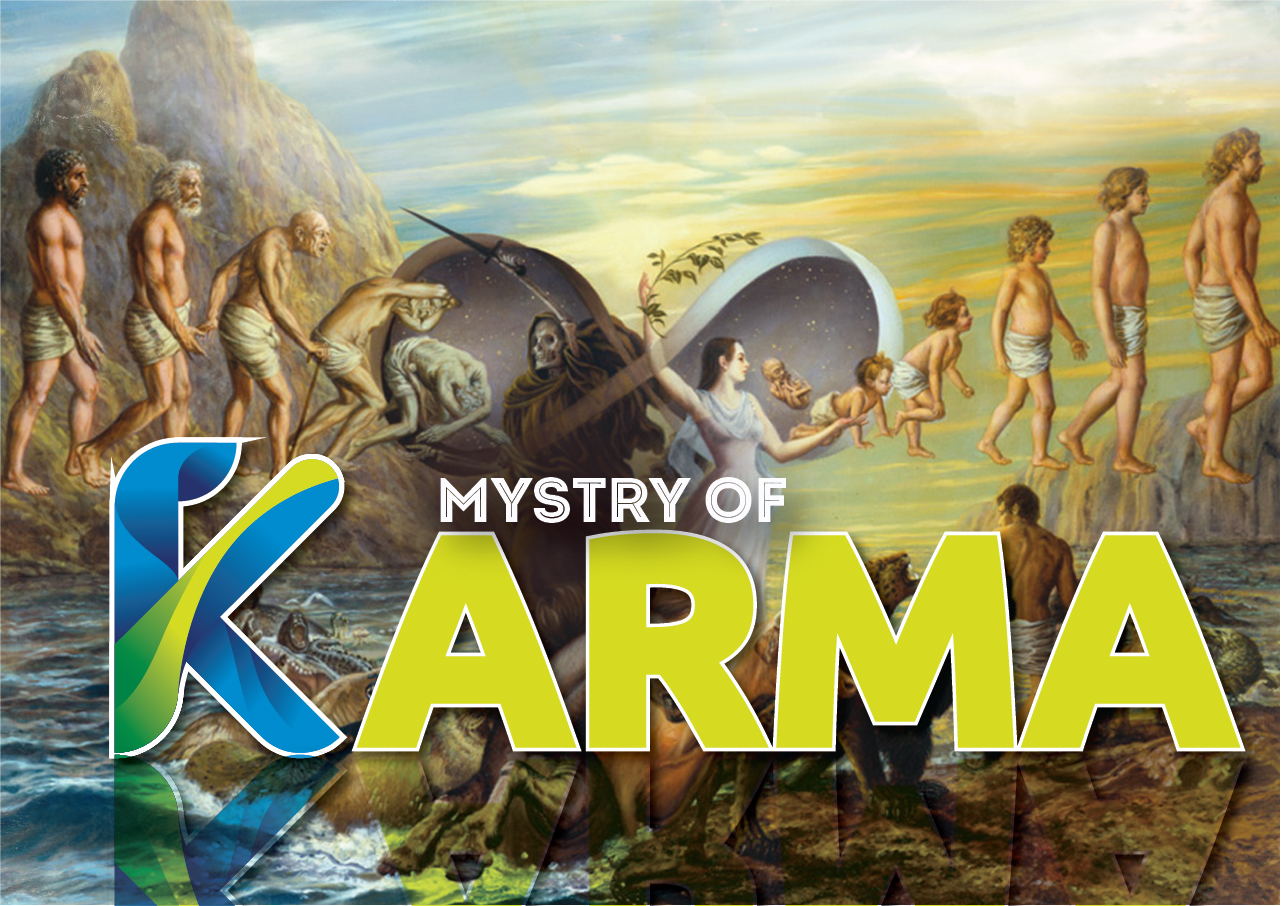
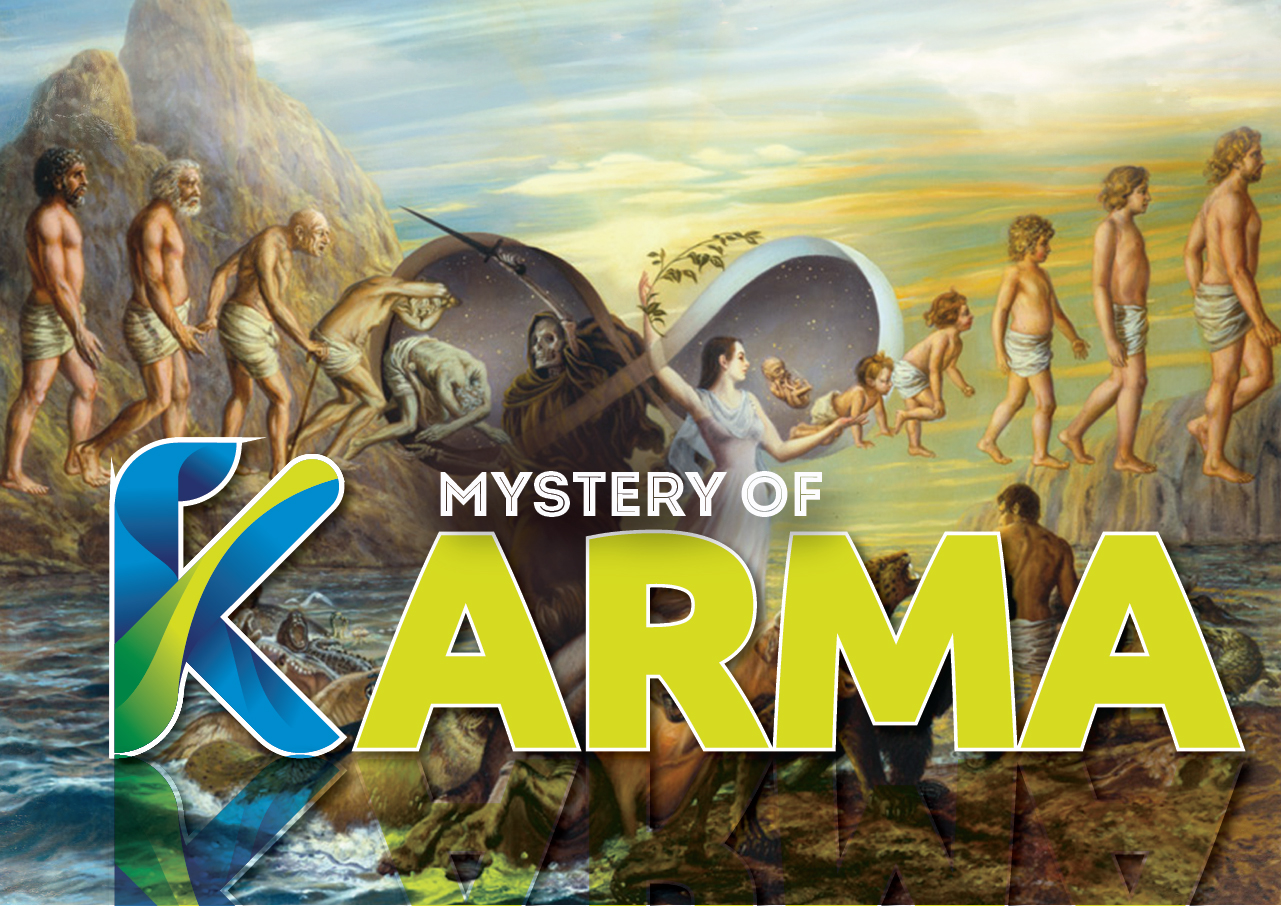
fixed typos

diff --git a/bg-life-lessons.html b/bg-life-lessons.html
@@ -329,7 +329,7 @@
           <img src="./assets/images/bg-soul.jpg" width="100%"/>
         </div>
         <div class="col s12 pull-l6 l6">
-          <h5 class="heading-3">Who am I?</h5>
+          <h5 class="heading-3">Soul - The true self.</h5>
           <div class="small-line"></div><br/>
           <div class="event-box">
             <div class="valign-wrapper">
